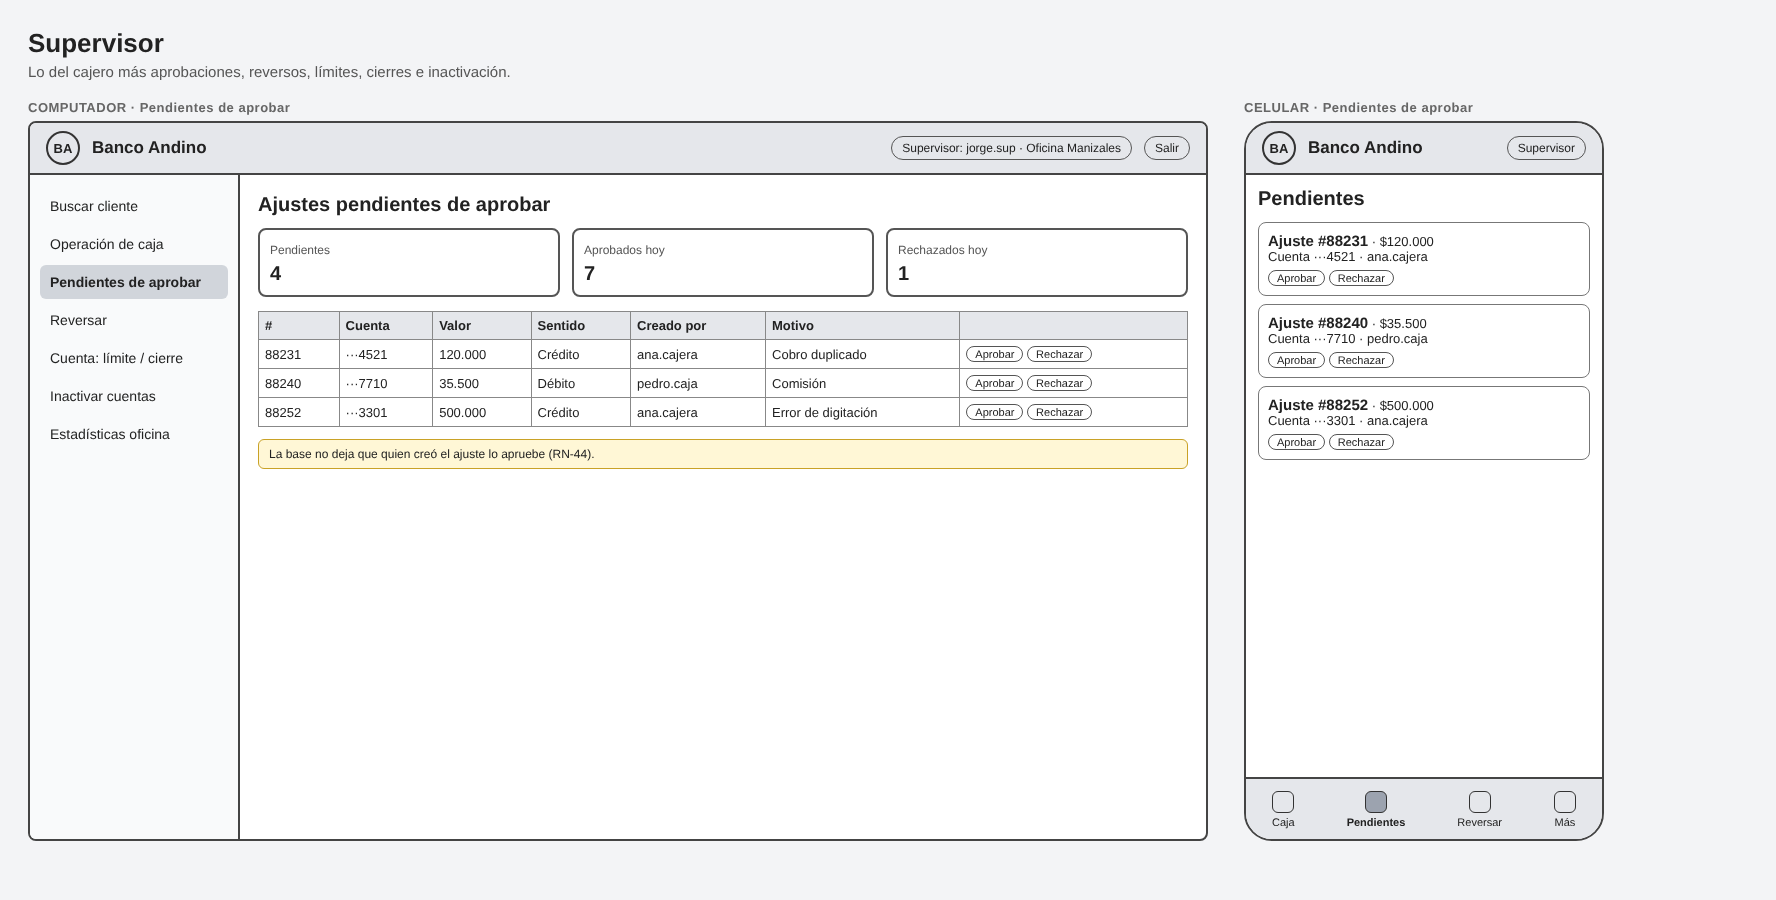
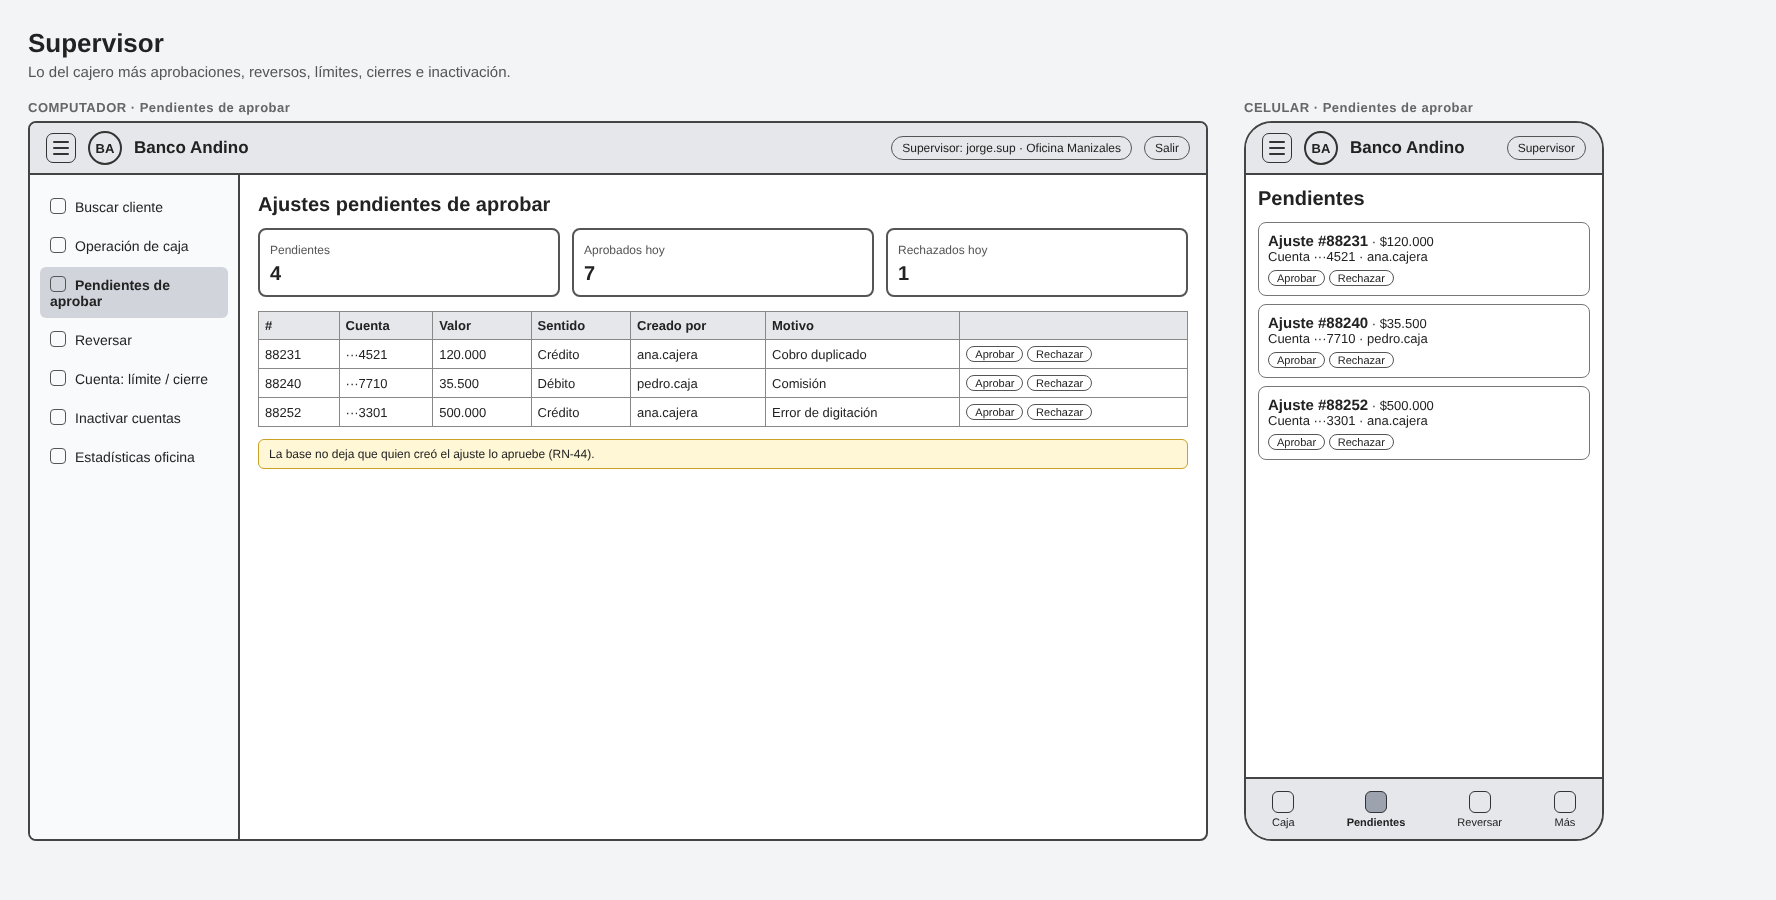
B1 - Aprobación de bocetos con menú plegable y lineamientos de interfaz
Los 5 aprobamos los bocetos de B1. Agregamos el menú lateral plegable con botón ☰ en todos los bocetos y un boceto nuevo que muestra el menú abierto, plegado y en celular. Dejamos escritos los lineamientos de la interfaz final: minimalista, estilo glass, íconos simples y animaciones en botones, pagos, inicio de sesión y tableros. Marcamos B1 como listo.

Changed region(s): [[0.0, 0.2178, 0.1239, 0.5289], [0.7123, 0.1556, 0.8361, 0.1867], [0.031, 0.1556, 0.1548, 0.1867]]

diff --git a/fase-bi/B1_diseno/lineamientos_interfaz.md b/fase-bi/B1_diseno/lineamientos_interfaz.md
@@ -1,0 +1,45 @@
+# B1 · Lineamientos de la interfaz final
+
+Esto lo acordamos al revisar los bocetos. Los bocetos son en blanco y negro a propósito: muestran
+qué va en cada pantalla. El aspecto final lo construimos en B6 siguiendo estas reglas.
+
+## Menú lateral plegable
+
+- Arriba a la izquierda va un botón ☰ (menú hamburguesa).
+- En computador, el menú se pliega a una franja delgada con solo íconos, como el menú lateral de
+  Opera, y el contenido (tablero o página) se agranda para usar ese espacio. Al pasar el mouse por
+  un ícono sale su nombre, y con el mismo botón ☰ se vuelve a abrir.
+- El aplicativo recuerda si cada persona dejó el menú abierto o plegado.
+- En celular, el menú sale encima del contenido desde la izquierda y se cierra tocando afuera o
+  deslizando. La barra de abajo se queda con los accesos más usados de cada perfil.
+- Boceto: `bocetos/8_menu_lateral.png`.
+
+## Estilo visual
+
+- **Minimalista:** pocos elementos por pantalla, mucho espacio en blanco y una sola acción
+  principal por pantalla.
+- **Glass (vidrio):** tarjetas, menú y ventanas con fondo semitransparente y desenfoque detrás,
+  bordes suaves y sombras ligeras. Cuidamos que el texto siempre se lea bien sobre el vidrio.
+- **Íconos simples:** un solo estilo de íconos de línea en todo el aplicativo, del mismo color
+  de la paleta. Nada de íconos de colores mezclados.
+- **Logo:** sencillo y del color de la paleta, para la barra superior y la pantalla de inicio.
+
+## Animaciones
+
+| Dónde | Qué pasa |
+|---|---|
+| Botones | Se elevan un poco al pasar el mouse y se hunden al presionarlos |
+| Iniciar sesión | La tarjeta de entrada se desvanece y el tablero del perfil entra suavemente |
+| Pagos y transferencias | Mientras la base responde, el botón muestra que está procesando; al terminar aparece una marca de éxito animada con el número de transacción |
+| Errores | La tarjeta se sacude un poco y muestra el motivo en lenguaje sencillo |
+| Menú lateral | Se pliega y se abre deslizándose, y el contenido se acomoda sin saltos |
+| Tableros | Las cifras cuentan hasta su valor y las gráficas crecen al cargar |
+| Cambio de página | Transición corta de desvanecido |
+
+Las animaciones son cortas (menos de medio segundo) para que no estorben. Si el celular o el
+computador tienen activado "reducir movimiento", las quitamos.
+
+## Colores
+
+La paleta la definimos más adelante, cuando estemos en el desarrollo. La idea es que se vea
+como un banco: sobria y ejecutiva. Antes de B6 vamos a comparar 2 o 3 opciones en grupo.

diff --git a/fase-bi/B1_diseno/pantallas.md b/fase-bi/B1_diseno/pantallas.md
@@ -36,13 +36,15 @@ estrella, para que cada uno se pueda calcular igual en SQL, en Power BI y en el 
 
 ## Cómo se ve en celular
 
-- El menú lateral del computador se vuelve una barra abajo con los íconos principales.
+- El menú lateral se abre con el botón ☰ encima del contenido, y abajo queda una barra con
+  los accesos más usados.
 - Las tablas largas se vuelven tarjetas, una por fila.
 - Los formularios van en una sola columna con botones grandes.
 - Las gráficas se apilan una debajo de la otra.
 
 ## Reglas de diseño que nos pusimos
 
+- El menú lateral se pliega con el botón ☰ y el contenido se agranda (ver `lineamientos_interfaz.md`).
 - Mismo color principal y el mismo logo del Banco Andino en todas las pantallas.
 - Cada operación pide confirmar antes de enviarse y muestra el número de transacción al terminar.
 - Cuando la base rechaza algo, mostramos el motivo en lenguaje sencillo según el código de error

diff --git a/fase-bi/DECISIONES_B.md b/fase-bi/DECISIONES_B.md
@@ -22,3 +22,6 @@ Lo que fuimos decidiendo en grupo y por qué.
 9. **El despliegue lo lleva Jerónimo.** Las opciones están en `despliegue/DESPLIEGUE.md`.
 10. **Trabajamos con la base en el computador de Juan Diego**, con PostgreSQL local. En B0
     revisamos que siga cargada y con los mismos conteos.
+11. **Aprobamos los bocetos de B1** con un cambio: menú lateral plegable con botón ☰, como el de
+    Opera, para que el contenido se agrande. La interfaz final va minimalista, estilo glass, con
+    botones e íconos animados y simples. La paleta de colores la definimos antes de B6.

diff --git a/fase-bi/README.md b/fase-bi/README.md
@@ -14,7 +14,7 @@ Trabajamos en la rama `fase-bi`. Lo de G0 a G8 quedó congelado en el tag `entre
 | Gate | Qué es | Estado |
 |---|---|---|
 | B0 | Corrección previa de la documentación | Listo |
-| B1 | Requisitos, perfiles y bocetos | En revisión del grupo |
+| B1 | Requisitos, perfiles y bocetos | Listo |
 | B2 | Modelo estrella en la base | Pendiente |
 | B3 | Tableros en Power BI | Pendiente |
 | B4 | Tableros dentro del aplicativo | Pendiente |
